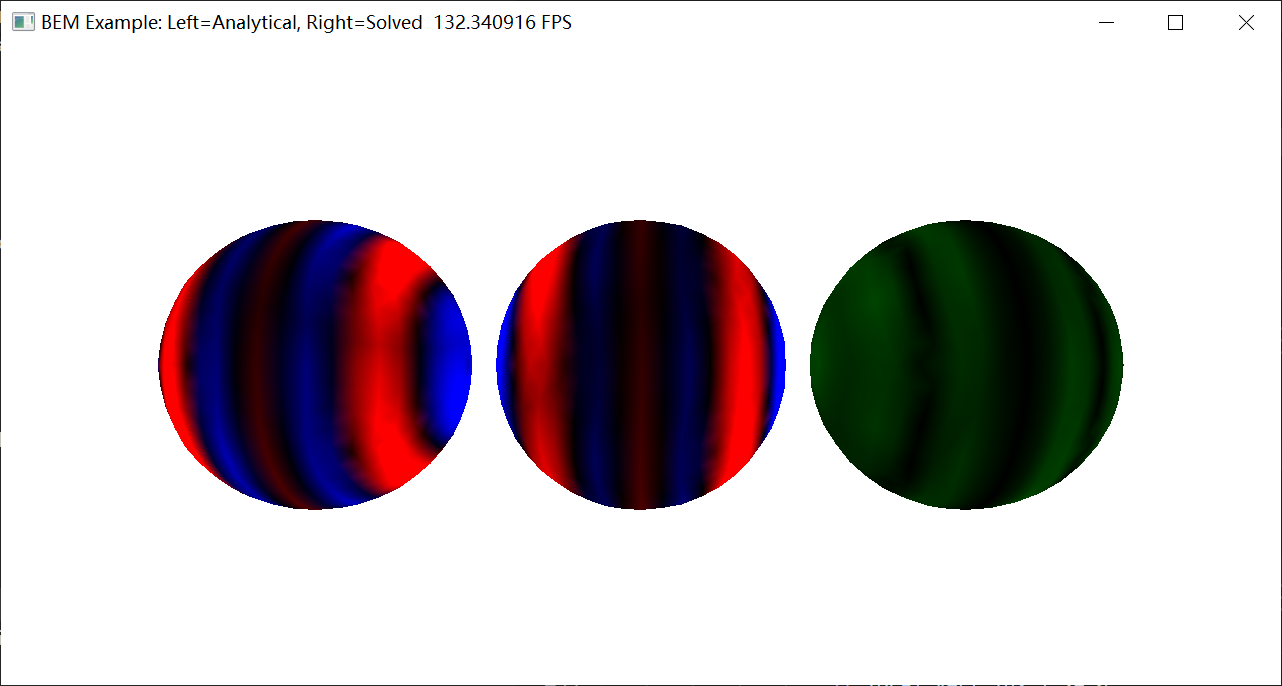
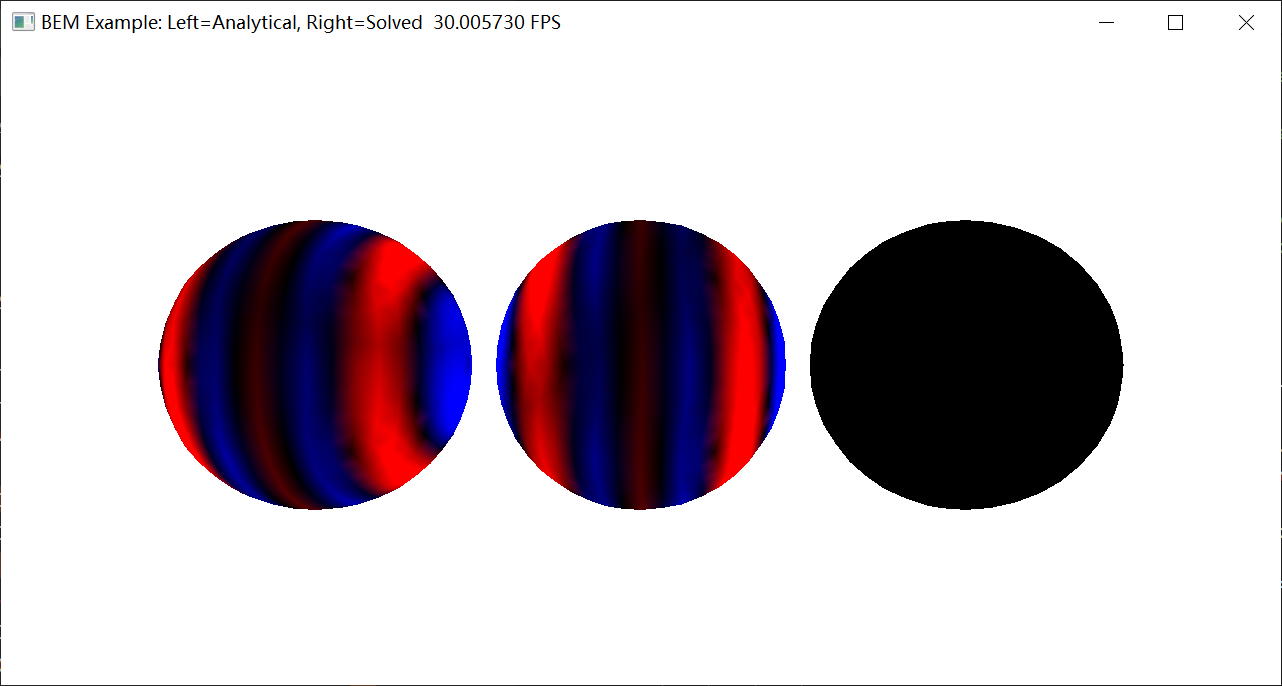
Fix Identity layer for Helmholtz Transmission problem

diff --git a/src/BEM_functions/identity_layer/identity_layer_3d.py b/src/BEM_functions/identity_layer/identity_layer_3d.py
@@ -171,39 +171,42 @@ class IdentityLayer3d(AbstractIdentityLayer):
         Compute BIO matix W_mat
         Please note other than other three BIOs, this BIO has a negtive sign
         """
-        if ti.static(self.num_of_Dirichlets > 0):
-            for local_I in range(self.num_of_Dirichlets):
-                # Dirichlet Boundary
-                global_i = self._BEM_manager.map_local_Dirichlet_index_to_panel_index(local_I)
-                self._BEM_manager.get_mat_A()[local_I + self._Dirichlet_offset_i, local_I + self._Dirichlet_offset_j] += mutiplier * self.integrate_on_single_panel(
-                    triangle_x=global_i,
-                    basis_function_index_x=-1, basis_function_index_y=-1
-                )
+        # if ti.static(self.num_of_Dirichlets > 0):
+        #     for local_I in range(self.num_of_Dirichlets):
+        #         # Dirichlet Boundary
+        #         global_i = self._BEM_manager.map_local_Dirichlet_index_to_panel_index(local_I)
+
+        #         integrand = self.integrate_on_single_panel(
+        #             triangle_x=global_i,
+        #             basis_function_index_x=-1, basis_function_index_y=-1
+        #         )
+
+        #         self._BEM_manager.get_mat_A()[local_I + self._Dirichlet_offset_i, local_I + self._Dirichlet_offset_j] += mutiplier * integrand
             
-        if ti.static(self.num_of_Neumanns > 0):
-            num_of_Neumann_panels = self.num_of_panels - self.num_of_Dirichlets
-            if self.num_of_Neumanns == self.num_of_vertices:
-                num_of_Neumann_panels = self.num_of_panels
-            for local_I in range(num_of_Neumann_panels):
-                for iijj in range(9):
-                    ii = iijj // self._dim
-                    jj = iijj % self._dim
+        # if ti.static(self.num_of_Neumanns > 0):
+        #     num_of_Neumann_panels = self.num_of_panels - self.num_of_Dirichlets
+        #     if self.num_of_Neumanns == self.num_of_vertices:
+        #         num_of_Neumann_panels = self.num_of_panels
+        #     for local_I in range(num_of_Neumann_panels):
+        #         for iijj in range(9):
+        #             ii = iijj // self._dim
+        #             jj = iijj % self._dim
 
-                    # Neumann Boundary
-                    global_i = self._BEM_manager.map_local_Neumann_index_to_panel_index(local_I)
+        #             # Neumann Boundary
+        #             global_i = self._BEM_manager.map_local_Neumann_index_to_panel_index(local_I)
 
-                    global_vert_idx_i = self._BEM_manager.get_vertice_index_from_flat_panel_index(self._dim * global_i + ii)
-                    local_vert_idx_i = self._BEM_manager.map_global_vert_index_to_local_Neumann(global_vert_idx_i)
-                    global_vert_idx_j = self._BEM_manager.get_vertice_index_from_flat_panel_index(self._dim * global_i + jj)
-                    local_vert_idx_j = self._BEM_manager.map_global_vert_index_to_local_Neumann(global_vert_idx_j)
+        #             global_vert_idx_i = self._BEM_manager.get_vertice_index_from_flat_panel_index(self._dim * global_i + ii)
+        #             local_vert_idx_i = self._BEM_manager.map_global_vert_index_to_local_Neumann(global_vert_idx_i)
+        #             global_vert_idx_j = self._BEM_manager.get_vertice_index_from_flat_panel_index(self._dim * global_i + jj)
+        #             local_vert_idx_j = self._BEM_manager.map_global_vert_index_to_local_Neumann(global_vert_idx_j)
 
-                    integrand = self.integrate_on_single_panel(
-                        triangle_x=global_i,
-                        basis_function_index_x=ii, basis_function_index_y=jj
-                    )
+        #             integrand = self.integrate_on_single_panel(
+        #                 triangle_x=global_i,
+        #                 basis_function_index_x=ii, basis_function_index_y=jj
+        #             )
 
-                    if local_vert_idx_i >= 0 and local_vert_idx_j >= 0:
-                        self._BEM_manager.get_mat_A()[local_vert_idx_i + self._Neumann_offset_i, local_vert_idx_j + self._Neumann_offset_j] += mutiplier * integrand
+        #             if local_vert_idx_i >= 0 and local_vert_idx_j >= 0:
+        #                 self._BEM_manager.get_mat_A()[local_vert_idx_i + self._Neumann_offset_i, local_vert_idx_j + self._Neumann_offset_j] += mutiplier * integrand
         
         if ti.static(self._BEM_manager._is_transmission > 0):
             num_of_Neumann_panels = self.num_of_panels
@@ -229,39 +232,39 @@ class IdentityLayer3d(AbstractIdentityLayer):
         Compute BIO matix W_mat
         Please note other than other three BIOs, this BIO has a negtive sign
         """
-        if ti.static(self.num_of_Dirichlets > 0):
-            for local_I in range(self.num_of_Dirichlets):
-                # Dirichlet Boundary
-                global_i = self._BEM_manager.map_local_Dirichlet_index_to_panel_index(local_I)
-                self._BEM_manager.get_mat_P()[local_I + self._Dirichlet_offset_i, local_I + self._Dirichlet_offset_j] += mutiplier * self.integrate_on_single_panel(
-                    triangle_x=global_i,
-                    basis_function_index_x=-1, basis_function_index_y=-1
-                )
+        # if ti.static(self.num_of_Dirichlets > 0):
+        #     for local_I in range(self.num_of_Dirichlets):
+        #         # Dirichlet Boundary
+        #         global_i = self._BEM_manager.map_local_Dirichlet_index_to_panel_index(local_I)
+        #         self._BEM_manager.get_mat_P()[local_I + self._Dirichlet_offset_i, local_I + self._Dirichlet_offset_j] += mutiplier * self.integrate_on_single_panel(
+        #             triangle_x=global_i,
+        #             basis_function_index_x=-1, basis_function_index_y=-1
+        #         )
             
-        if ti.static(self.num_of_Neumanns > 0):
-            num_of_Neumann_panels = self.num_of_panels - self.num_of_Dirichlets
-            if self.num_of_Neumanns == self.num_of_vertices:
-                num_of_Neumann_panels = self.num_of_panels
-            for local_I in range(num_of_Neumann_panels):
-                for iijj in range(9):
-                    ii = iijj // self._dim
-                    jj = iijj % self._dim
+        # if ti.static(self.num_of_Neumanns > 0):
+        #     num_of_Neumann_panels = self.num_of_panels - self.num_of_Dirichlets
+        #     if self.num_of_Neumanns == self.num_of_vertices:
+        #         num_of_Neumann_panels = self.num_of_panels
+        #     for local_I in range(num_of_Neumann_panels):
+        #         for iijj in range(9):
+        #             ii = iijj // self._dim
+        #             jj = iijj % self._dim
 
-                    # Neumann Boundary
-                    global_i = self._BEM_manager.map_local_Neumann_index_to_panel_index(local_I)
+        #             # Neumann Boundary
+        #             global_i = self._BEM_manager.map_local_Neumann_index_to_panel_index(local_I)
 
-                    global_vert_idx_i = self._BEM_manager.get_vertice_index_from_flat_panel_index(self._dim * global_i + ii)
-                    local_vert_idx_i = self._BEM_manager.map_global_vert_index_to_local_Neumann(global_vert_idx_i)
-                    global_vert_idx_j = self._BEM_manager.get_vertice_index_from_flat_panel_index(self._dim * global_i + jj)
-                    local_vert_idx_j = self._BEM_manager.map_global_vert_index_to_local_Neumann(global_vert_idx_j)
+        #             global_vert_idx_i = self._BEM_manager.get_vertice_index_from_flat_panel_index(self._dim * global_i + ii)
+        #             local_vert_idx_i = self._BEM_manager.map_global_vert_index_to_local_Neumann(global_vert_idx_i)
+        #             global_vert_idx_j = self._BEM_manager.get_vertice_index_from_flat_panel_index(self._dim * global_i + jj)
+        #             local_vert_idx_j = self._BEM_manager.map_global_vert_index_to_local_Neumann(global_vert_idx_j)
 
-                    integrand = self.integrate_on_single_panel(
-                        triangle_x=global_i,
-                        basis_function_index_x=ii, basis_function_index_y=jj
-                    )
+        #             integrand = self.integrate_on_single_panel(
+        #                 triangle_x=global_i,
+        #                 basis_function_index_x=ii, basis_function_index_y=jj
+        #             )
 
-                    if local_vert_idx_i >= 0 and local_vert_idx_j >= 0:
-                        self._BEM_manager.get_mat_P()[local_vert_idx_i + self._Neumann_offset_i, local_vert_idx_j + self._Neumann_offset_j] += mutiplier * integrand
+        #             if local_vert_idx_i >= 0 and local_vert_idx_j >= 0:
+        #                 self._BEM_manager.get_mat_P()[local_vert_idx_i + self._Neumann_offset_i, local_vert_idx_j + self._Neumann_offset_j] += mutiplier * integrand
         
         if ti.static(self._BEM_manager._is_transmission > 0):
             num_of_Neumann_panels = self.num_of_panels

diff --git a/src/managers/BEM_manager.py b/src/managers/BEM_manager.py
@@ -589,6 +589,13 @@ class BEMManager:
         self.rhs_constructor.forward(assemble_type=assemble_type, k=k, sqrt_n=sqrt_n)
         self._log_manager.InfoLog("Construct all RHS Layers Done")
     
+    def compute_norm(self, A: torch.Tensor):
+        # Do your svd firstly
+        S = torch.linalg.svdvals(A)
+        A_norm = 1.0 / S.abs().min()
+
+        return A_norm
+    
     def get_mat_A1_norm(self, k: float):
         self._mat_A.fill(0)
 
@@ -597,12 +604,13 @@ class BEMManager:
         self.matrix_layer_forward(k=k, sqrt_n=self._sqrt_no)
         self.assemble_matA(assemble_type=int(AssembleType.ADD_P_MINUS), multiplier=1.0)  # Add P_MINUS_O
 
-        torch_mat_A = self._mat_A.to_torch()
-        torch_mat_A = torch_mat_A[..., 0] + torch_mat_A[..., 1] * 1j
-        torch_mat_A = torch.linalg.inv(torch_mat_A)
-        mat_A_norm = torch_mat_A.norm(p="nuc")
+        device = torch.device("cuda" if torch.cuda.is_available() else "cpu")
+        torch_mat_A = self._mat_A.to_torch().to(device)
+        torch_mat_A = warp_tensor(torch_mat_A)
+        # torch_mat_A = torch.linalg.inv(torch_mat_A)
+        mat_A_norm = self.compute_norm(torch_mat_A)
 
-        return mat_A_norm
+        return mat_A_norm.item()
     
     def get_mat_A2_norm(self, k: float):
         self._mat_A.fill(0)
@@ -612,12 +620,13 @@ class BEMManager:
         self.matrix_layer_forward(k=k, sqrt_n=self._sqrt_no)
         self.assemble_matA(assemble_type=int(AssembleType.ADD_P_MINUS), multiplier=1.0)  # Add P_MINUS_O
 
-        torch_mat_A = self._mat_A.to_torch()
-        torch_mat_A = torch_mat_A[..., 0] + torch_mat_A[..., 1] * 1j
-        torch_mat_A = torch.linalg.inv(torch_mat_A)
-        mat_A_norm = torch_mat_A.norm(p="nuc")
+        device = torch.device("cuda" if torch.cuda.is_available() else "cpu")
+        torch_mat_A = self._mat_A.to_torch().to(device)
+        torch_mat_A = warp_tensor(torch_mat_A)
+        # torch_mat_A = torch.linalg.inv(torch_mat_A)
+        mat_A_norm = self.compute_norm(torch_mat_A)
 
-        return mat_A_norm
+        return mat_A_norm.item()
     
     def get_mat_Sio_norm(self, k: float):
         self._mat_A.fill(0)

diff --git a/demo/demo_3d_plot_Sio.py b/demo/demo_3d_plot_Sio.py
@@ -73,8 +73,8 @@ def main(args):
         vec_result = du_dx1 * normal_x.x + du_dx2 * normal_x.y + du_dx3 * normal_x.z
         return vec_result
     
-    N = 10
-    wave_numbers = [i * 1.0 / N for i in range(15 * N)]
+    N = 5
+    wave_numbers = [1.0 + i * 1.0 / N for i in range(15 * N)]
     A1_inv_norms = [0.0 for i in range(len(wave_numbers))]
     A2_inv_norms = [0.0 for i in range(len(wave_numbers))]
     core_manager = CoreManager(simulation_parameters)

diff --git a/readme.md b/readme.md
@@ -8,7 +8,7 @@
 ### Helmholtz Equation
 <img src="demo/Helmholtz_solved_Dirichlet.png" height="270">
 
-### Helmholtz Transmission Equation (Still Working on! 👨💻)
+### Helmholtz Transmission Equation
 <img src="demo/HelmholtzTransmission_solved_Full.png" height="270">
 
 
@@ -19,8 +19,8 @@ cd taichi-BEM
 pip install -r requirements.txt
 cd demo
 python demo_3d_Laplace.py --boundary Dirichlet
-python demo_3d_Helmholtz.py --boundary Neumann
-python demo_3d_Helmholtz_Transmission.py --boundary Neumann --k 3.14 
+python demo_3d_Helmholtz.py --boundary Neumann -k 5
+python demo_3d_Helmholtz_Transmission.py --boundary Full --k 5
 ```
 
 ### Parameters
